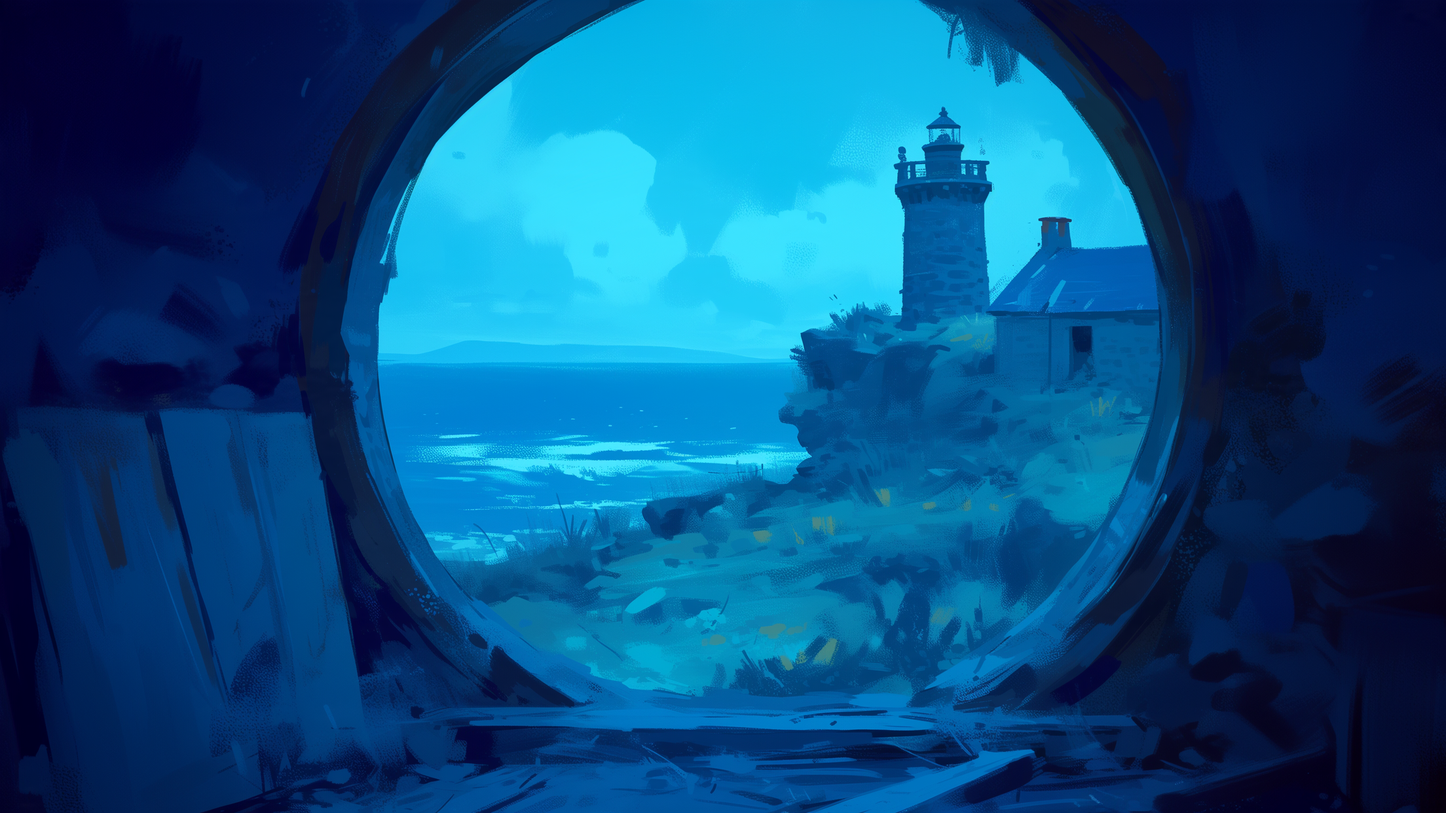
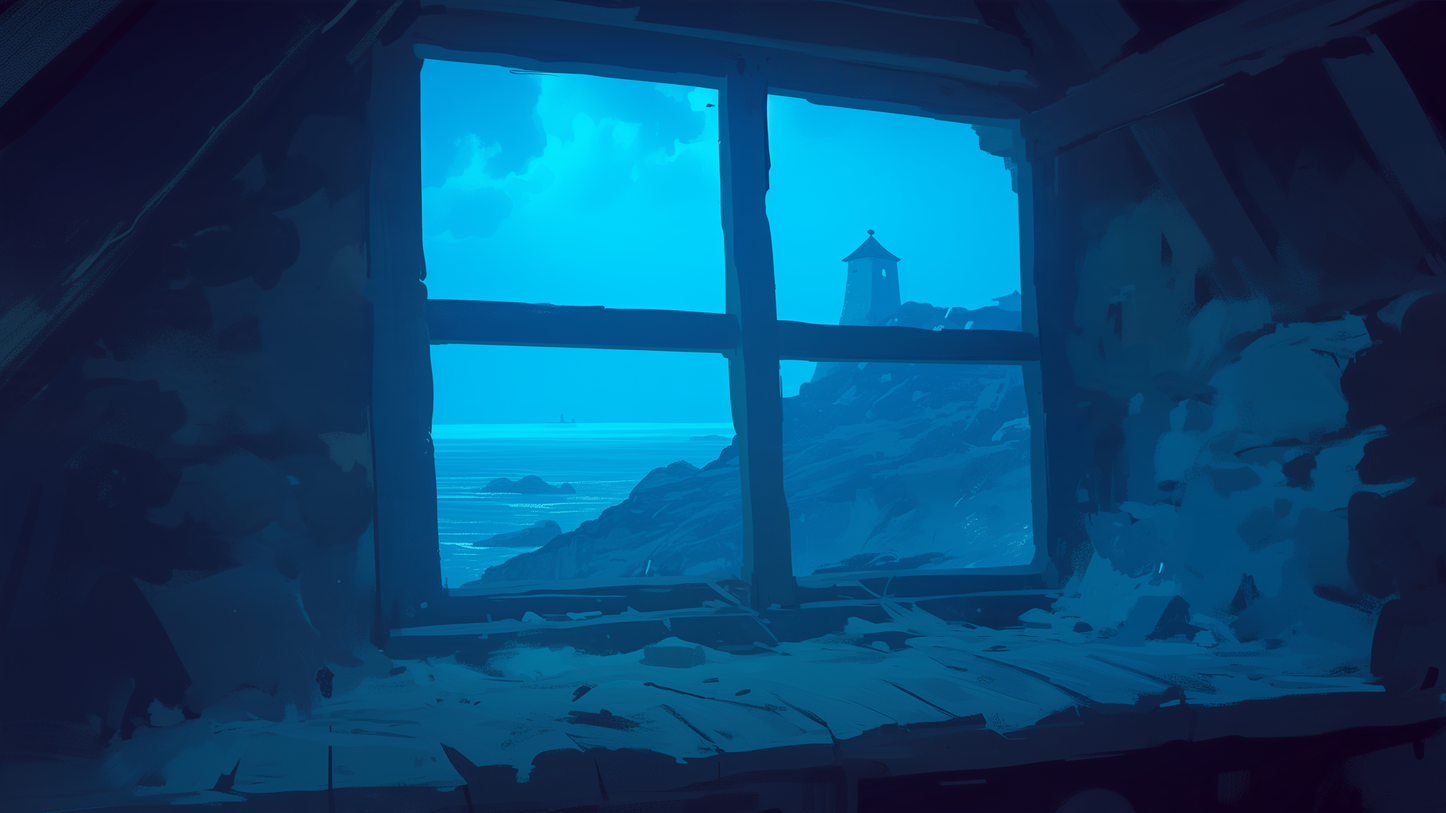
A4 r3 + B1 r2 final; all storyboards final; Codex speed fix noted; size check added
Claude-Session: https://claude.ai/code/session_01MGSCAVnQPAUqBiCn5fEB7X

diff --git a/TechArtAsset/Storyboard/_storyboard_selection.py b/TechArtAsset/Storyboard/_storyboard_selection.py
@@ -12,8 +12,8 @@ AB=[
  ["A1","爷爷给灯笼引火","右下（下载名 0_1）","已定稿","灯型和游戏里的灯笼接近；爷爷侧脸可接受（第一次见到他）。缺塔顶大灯","SB_A1.png；左上备用 _work/SB_A1_src_alt.png"],
  ["A2","灯光守住小镇","右上","已定稿","一圈暖光把雾挡在外面，“光照到的地方，记忆属于人”一眼能懂","SB_A2.png"],
  ["A3","灯塔熄灭，雾上岸","最暗那张 + 用户 PS 涂暗灯室","已定稿","四张里三张灯塔仍亮；选最暗的，灯室残留的一点亮光由用户 PS 涂暗（11-12）","SB_A3.png；源 _work/SB_A3_PSfix.psd，修改前 _work/SB_A3_before_PSfix.png"],
- ["A4","梅拉手里的灯笼亮起","右上","暂用","背影对；暖光圈太小，“屋里一角变暖”不够明显，可能重跑","SB_A4.png 暂用"],
- ["B1","阁楼窗外","右上（圆窗）","暂用","灯塔是暗的，但圆窗像船舷窗，阁楼该是方窗，可能重跑","SB_B1.png 暂用"],
+ ["A4","梅拉手里的灯笼亮起","第三轮左上","已定稿","第一轮暖光圈太弱；第二轮写 circle of light 被画成发光光环；第三轮写“光洒到屋子一侧、远处仍冷”，冷暖分边自然：近处变暖变旧（渔网、照片、蜡烛），远处窗边仍冷蓝","SB_A4.png；源 _work/SB_A4_src_r3.png，旧版 _work/SB_A4_r1_old.png"],
+ ["B1","阁楼窗外","第二轮左下（斜构图方窗）","已定稿","第一轮圆窗像船舷窗；第二轮改方窗。选斜的构图：更有指向性；关着的窗造成更强的距离和隔阂，暗示人们彼此隔绝","SB_B1.png；源 _work/SB_B1_src_r2_slanted.png，备用正面 _work/SB_B1_src_r2_frontal_alt.png"],
  ["B2","二十年前出海","左上","已定稿","回忆感最强：暖色的“高光时刻”和后面的熄灯、失踪形成跌落感，现实与回忆反差拉大","SB_B2.png；另一张 _work/SB_B2_src_alt.png"],
  ["B3","一人跳回岸上","左上","已定稿","另两张人在半空中跳像喜剧；左上一人站在礁石上、船驶向远处，最安静","SB_B3.png"],
  ["B4","爷爷熄灯，雾中人影","左下 + 用户 PS 去塔身橘光","已定稿","只有这张塔灯暗、雾里有人影；橘色会读成“还有希望”，去掉后才是熄灯与雾中人的怨恨、遗憾、内疚（脚本自动去色失败，PS 完成）","SB_B4.png；源 _work/SB_B4_src_BL_PSfix.psd"],
@@ -38,6 +38,7 @@ open("STORYBOARD_SELECTION.md","w",encoding="utf-8").write(f"""# 故事版选图
 ## 选图原则（用户，11-08 ~ 11-12）
 - **情绪落差**：回忆镜头选最暖、最“高光”的，让后面的失去有跌落感；悲剧镜头去掉多余暖色（会读成“还有希望”）。
 - **远处的灯**：近处黑、远处一盏灯 = 希望在那边，但走过去不是想要的（P2 起沿用）。
+- **构图带情绪**：斜构图有指向性；关着的窗 = 距离、隔阂、人与人隔绝（B1）。
 - **道具一致**：灯笼选和游戏灯型接近的（A1）。
 - **构图服务字幕**：留一块不太亮的大面积给两行字幕。
 - 灯塔在序章和熄灭后的镜头一律不亮。

diff --git a/TechnicalArt/MENU_UNITY_PROGRESS.md b/TechnicalArt/MENU_UNITY_PROGRESS.md
@@ -319,3 +319,13 @@
 - Completed two consecutive Play Mode routes: Start Menu → Prologue → Home → W pickup → A → temporary end trigger → B → Back to Menu. The second route started from the returned Start Menu. State readback after return: `HasLantern=false`, `MemoryLayer=false`. Verified B5 and the two visible buttons.
 - Captures: `ForDesignScreenshot/2026-11-11_Lantern_StoryA_EndCard/{pickup_prompt.png,A1.png,E_hint.png,B1.png,B5_buttons.png}` (1920×1080). Recorder clips were not made. The placeholder PNGs include baked caption text, so the live caption appears twice until final art replaces them.
 - Unity commit `75aec3549a749ca7e9058a9523869dc147ee5e6f` (`Lantern pickup + Storyboard A + EndCard B (placeholders)`) pushed to `main`; remote `origin/main` verified at the commit.
+
+## 2026-11-12 — Storyboard A/B interim art and speed correction (Codex)
+
+- Imported the four LanternOrigin_A images and five Ending_B images from the LAN share (source images are 2048×1152). Assigned them to StoryboardData A1–A4 and B1–B5. Replaced A1–A3 caption-baked placeholders with the caption-free shared versions while keeping their existing asset metadata. Real art uses Sprite Single, PPU 100, Bilinear, mipmaps off, CompressedHQ, max 4096, Read/Write off.
+- B5 caption box is `(0.30, 0.70)`–`(0.70, 0.88)`, centered. Runtime glyph bounds PASS at `(0.31, 0.77)`–`(0.69, 0.81)`.
+- Speed root cause was `ProjectSettings/TimeManager.asset` serialized `m_TimeScale: 20`; reset it to `1`. Play Mode reported `Time.captureFramerate=0`. Existing `GameState`, `AudioManager`, and `LevelLoader` singleton guards plus `LevelBootstrap`'s loaded-Core check prevented duplicate persistent state. From both `00_StartMenu → 00b_Prologue → 01_Home` and direct `01_Home`, counts were exactly one each for GameState, AudioManager, LevelLoader, StoryboardPlayer, PlayerController, Maela Animator, AudioListener, and EventSystem.
+- Stopwatch captures at 1920×1080: Story A 6.001–6.003 s/frame against 6.000 configured; Story B 6.001–6.051 s for B1–B4 against 6.000 configured. Grounded Maela movement measured `2.368 / 0.751 = 3.152` world units/s against configured `3.200`. B5 caption bounds passed.
+- Screenshots and evidence: `ForDesignScreenshot/2026-11-12_StoryAB_InterimArt/A1_interim.png`–`A4_interim.png`, `B1_interim.png`–`B5_interim.png`, `B5_bounds.txt`, `StoryAB_timing.txt`, `RuntimeDiagnostics.txt`. Unity Recorder clips: `StoryA_interim.mp4` (26.0 s) and `StoryB_interim.mp4` (33.4 s), both H.264 1920×1080 at 30 fps with AAC audio. Captured locally, copied to the share, and SHA256 verified after copy.
+- Unity commit `c91cc8ae4bc0be9a7f4c637ce09430d5e85b0731` (`Storyboard A/B interim art`) pushed; `origin/main` verified at the same hash. This commit includes the updated project `AGENTS.md`.
+- Final Editor state: Edit Mode with only `00_StartMenu` open; no Play Mode or runtime test objects remain. Pre-existing unrelated TMP/font/package/EndCard edits and the temporary Recorder settings asset were excluded.

diff --git a/TechArtAsset/Storyboard/STORYBOARD_SELECTION.md b/TechArtAsset/Storyboard/STORYBOARD_SELECTION.md
@@ -5,6 +5,7 @@
 ## 选图原则（用户，11-08 ~ 11-12）
 - **情绪落差**：回忆镜头选最暖、最“高光”的，让后面的失去有跌落感；悲剧镜头去掉多余暖色（会读成“还有希望”）。
 - **远处的灯**：近处黑、远处一盏灯 = 希望在那边，但走过去不是想要的（P2 起沿用）。
+- **构图带情绪**：斜构图有指向性；关着的窗 = 距离、隔阂、人与人隔绝（B1）。
 - **道具一致**：灯笼选和游戏灯型接近的（A1）。
 - **构图服务字幕**：留一块不太亮的大面积给两行字幕。
 - 灯塔在序章和熄灭后的镜头一律不亮。
@@ -24,8 +25,8 @@
 | A1 | 爷爷给灯笼引火 | 右下（下载名 0_1） | 已定稿 | 灯型和游戏里的灯笼接近；爷爷侧脸可接受（第一次见到他）。缺塔顶大灯 | SB_A1.png；左上备用 _work/SB_A1_src_alt.png |
 | A2 | 灯光守住小镇 | 右上 | 已定稿 | 一圈暖光把雾挡在外面，“光照到的地方，记忆属于人”一眼能懂 | SB_A2.png |
 | A3 | 灯塔熄灭，雾上岸 | 最暗那张 + 用户 PS 涂暗灯室 | 已定稿 | 四张里三张灯塔仍亮；选最暗的，灯室残留的一点亮光由用户 PS 涂暗（11-12） | SB_A3.png；源 _work/SB_A3_PSfix.psd，修改前 _work/SB_A3_before_PSfix.png |
-| A4 | 梅拉手里的灯笼亮起 | 右上 | 暂用 | 背影对；暖光圈太小，“屋里一角变暖”不够明显，可能重跑 | SB_A4.png 暂用 |
-| B1 | 阁楼窗外 | 右上（圆窗） | 暂用 | 灯塔是暗的，但圆窗像船舷窗，阁楼该是方窗，可能重跑 | SB_B1.png 暂用 |
+| A4 | 梅拉手里的灯笼亮起 | 第三轮左上 | 已定稿 | 第一轮暖光圈太弱；第二轮写 circle of light 被画成发光光环；第三轮写“光洒到屋子一侧、远处仍冷”，冷暖分边自然：近处变暖变旧（渔网、照片、蜡烛），远处窗边仍冷蓝 | SB_A4.png；源 _work/SB_A4_src_r3.png，旧版 _work/SB_A4_r1_old.png |
+| B1 | 阁楼窗外 | 第二轮左下（斜构图方窗） | 已定稿 | 第一轮圆窗像船舷窗；第二轮改方窗。选斜的构图：更有指向性；关着的窗造成更强的距离和隔阂，暗示人们彼此隔绝 | SB_B1.png；源 _work/SB_B1_src_r2_slanted.png，备用正面 _work/SB_B1_src_r2_frontal_alt.png |
 | B2 | 二十年前出海 | 左上 | 已定稿 | 回忆感最强：暖色的“高光时刻”和后面的熄灯、失踪形成跌落感，现实与回忆反差拉大 | SB_B2.png；另一张 _work/SB_B2_src_alt.png |
 | B3 | 一人跳回岸上 | 左上 | 已定稿 | 另两张人在半空中跳像喜剧；左上一人站在礁石上、船驶向远处，最安静 | SB_B3.png |
 | B4 | 爷爷熄灯，雾中人影 | 左下 + 用户 PS 去塔身橘光 | 已定稿 | 只有这张塔灯暗、雾里有人影；橘色会读成“还有希望”，去掉后才是熄灯与雾中人的怨恨、遗憾、内疚（脚本自动去色失败，PS 完成） | SB_B4.png；源 _work/SB_B4_src_BL_PSfix.psd |

diff --git a/ART_HANDOFF.md b/ART_HANDOFF.md
@@ -197,6 +197,8 @@ TechArtAsset/Props/   TechArtAsset/UI/   TechArtAsset/Menu/   TechArtAsset/Audio
 - **选图记录（11-12）**：每张故事版 / Soazig 选了哪张、为什么 → `TechArtAsset/Storyboard/STORYBOARD_SELECTION.md`（agent）/ `.xlsx`（人看；同一份，由 `_storyboard_selection.py` 生成）。以后挑图后先更新这里。
 - **下一步（11-11 更新）**：① ☑ A1–A3、B4、B5 已处理完 ② 视情况重跑 A4（暖光圈）、B1（方窗） ③ Codex 跑拾灯笼 + A + EndCard B ④ LanternSwitch（现在 / 记忆层）+ Home 记忆层底图 + 阁楼（结尾触发从临时位置挪到阁楼窗边）⑤ 对话框 + 奶奶对白（Soazig 游戏版立绘 / 摇椅 Idle）⑥ 地上灯笼正式美术。
 - **11-12 计划（用户定）**：**11-15 中午上课给学生看**（当天早上还能做一点），届时基本定下来，之后进入设计排版。不做试玩。顺序：① Codex `2026-11-11_Unity_StoryAB_InterimArt.md`（9 张故事版 + 修 2 倍速）→ ② Codex `2026-11-12_Unity_LanternSwitch_Ladder_Attic_Greybox.md`（E 切现在 / 记忆层、断梯 / 完好梯、阁楼、结尾挪到阁楼窗）→ ③ 美术并行：A4、B1 重跑（11-12 已提交 MJ v2）、Home 记忆层底图 `Scenes/Home/Memory/Home_Memory_v1.png`、阁楼底图、梯子两态、地上灯笼 → ④ 奶奶 Soazig 游戏版 + 对话框 + 三句台词 → ⑤ A / B 每页字幕框（等 Codex 跑完看）→ ⑥ Windows 打包。
+- **11-12 凌晨**：Codex 跑完 StoryAB_InterimArt（Unity `c91cc8a`）：9 张故事版进 Unity，B5 字幕放天空 PASS；**2 倍速原因 = `ProjectSettings/TimeManager.asset` 的 `m_TimeScale` 被存成 20，已改回 1**（管理器都只有 1 个；故事版每页 6.00 s，跑速 3.15）；截图 / Recorder 录屏在 `ForDesignScreenshot/2026-11-12_StoryAB_InterimArt/`；编辑器只留 00_StartMenu。它报告故事版源图是 2048×1152（共享里是 2208×1242）→ 已写进下一个任务第 0 步核对。
+  - A4 第三轮左上、B1 第二轮左下（斜构图方窗：更有指向性，关着的窗 = 距离、隔阂、人与人隔绝）定稿 → `SB_A4.png`、`SB_B1.png`。**故事版 P / A / B 全部定稿。**
 - Unity `AGENTS.md` 已与 `UNITY_AGENTS.md` 同步（11-09，未提交，下次让 Codex 一起提交）；以后改 `UNITY_AGENTS.md` 就直接复制过去。
 - 截图规则：`ForDesignScreenshot/YYYY-MM-DD_主题/`，用户截图命名 `user_note_HHMM_说明.png`。
 

diff --git a/CommandForAgentToInitialRun/2026-11-12_Unity_LanternSwitch_Ladder_Attic_Greybox.md b/CommandForAgentToInitialRun/2026-11-12_Unity_LanternSwitch_Ladder_Attic_Greybox.md
@@ -9,6 +9,10 @@ Rules for this task: design files from the LAN share `SharedWorkFolder` (GitHub 
 
 Read: DEMO_IMPLEMENTATION_PLAN §3 rows ②–⑤, §4 (lantern switch rules — already decided, follow exactly), §5 (`LanternSwitch`, `WorldLayerObject`, `GameState`); HANDPAINTED_SPEC §4 "两层世界".
 
+## 0. Small art refresh (do first, own commit)
+- Re-copy `TechArtAsset/Storyboard/LanternOrigin_A/SB_A4.png` and `TechArtAsset/Storyboard/Ending_B/SB_B1.png` from the share over the Unity copies (same names/GUIDs) — both were replaced with final versions on 11-12.
+- Your last report said the storyboard source images were **2048×1152**. The files on the share are **2208×1242** (15 % margin for Ken Burns). Check every storyboard texture (P, A, B): source file must be 2208×1242 and the importer must not downscale it (Max Size 4096, no NPOT scaling). If anything was resized on copy, re-copy the originals. Report the actual sizes.
+
 ## What to build
 
 ### 1. GameState + LanternSwitch

diff --git a/ART_ref/ASSETS.md b/ART_ref/ASSETS.md
@@ -69,3 +69,4 @@
 | 2026-11-11 | 故事版 A / B 占位 `TechArtAsset/Storyboard/LanternOrigin_A/placeholder/SB_A1..4_placeholder.png`、`Ending_B/placeholder/SB_B1..5_placeholder.png`（2208×1242，代码生成） |
 | 2026-11-11 | 故事版暂用图（MJ 第一轮）：`Storyboard/LanternOrigin_A/SB_A4.png`；`Storyboard/Ending_B/SB_B1..B5.png`（B4 待去橘光、B5 待重摆举灯杆、B1/A4 可能重跑）；源 `_work/SB_*_src_*.png` |
 | 2026-11-12 | 故事版 A1–A3 暂用图 `LanternOrigin_A/SB_A1..A3.png`（A1 右下，灯型接近）；B4 去橘光、B5 重摆举灯杆（用户 PS，源 `Ending_B/_work/*_PSfix.*`） |
+| 2026-11-12 | 故事版 A4 定稿（第三轮，`LanternOrigin_A/_work/SB_A4_src_r3.png`）、B1 定稿（第二轮斜构图方窗，`Ending_B/_work/SB_B1_src_r2_slanted.png`；正面版备用）。P / A / B 全部定稿 |
